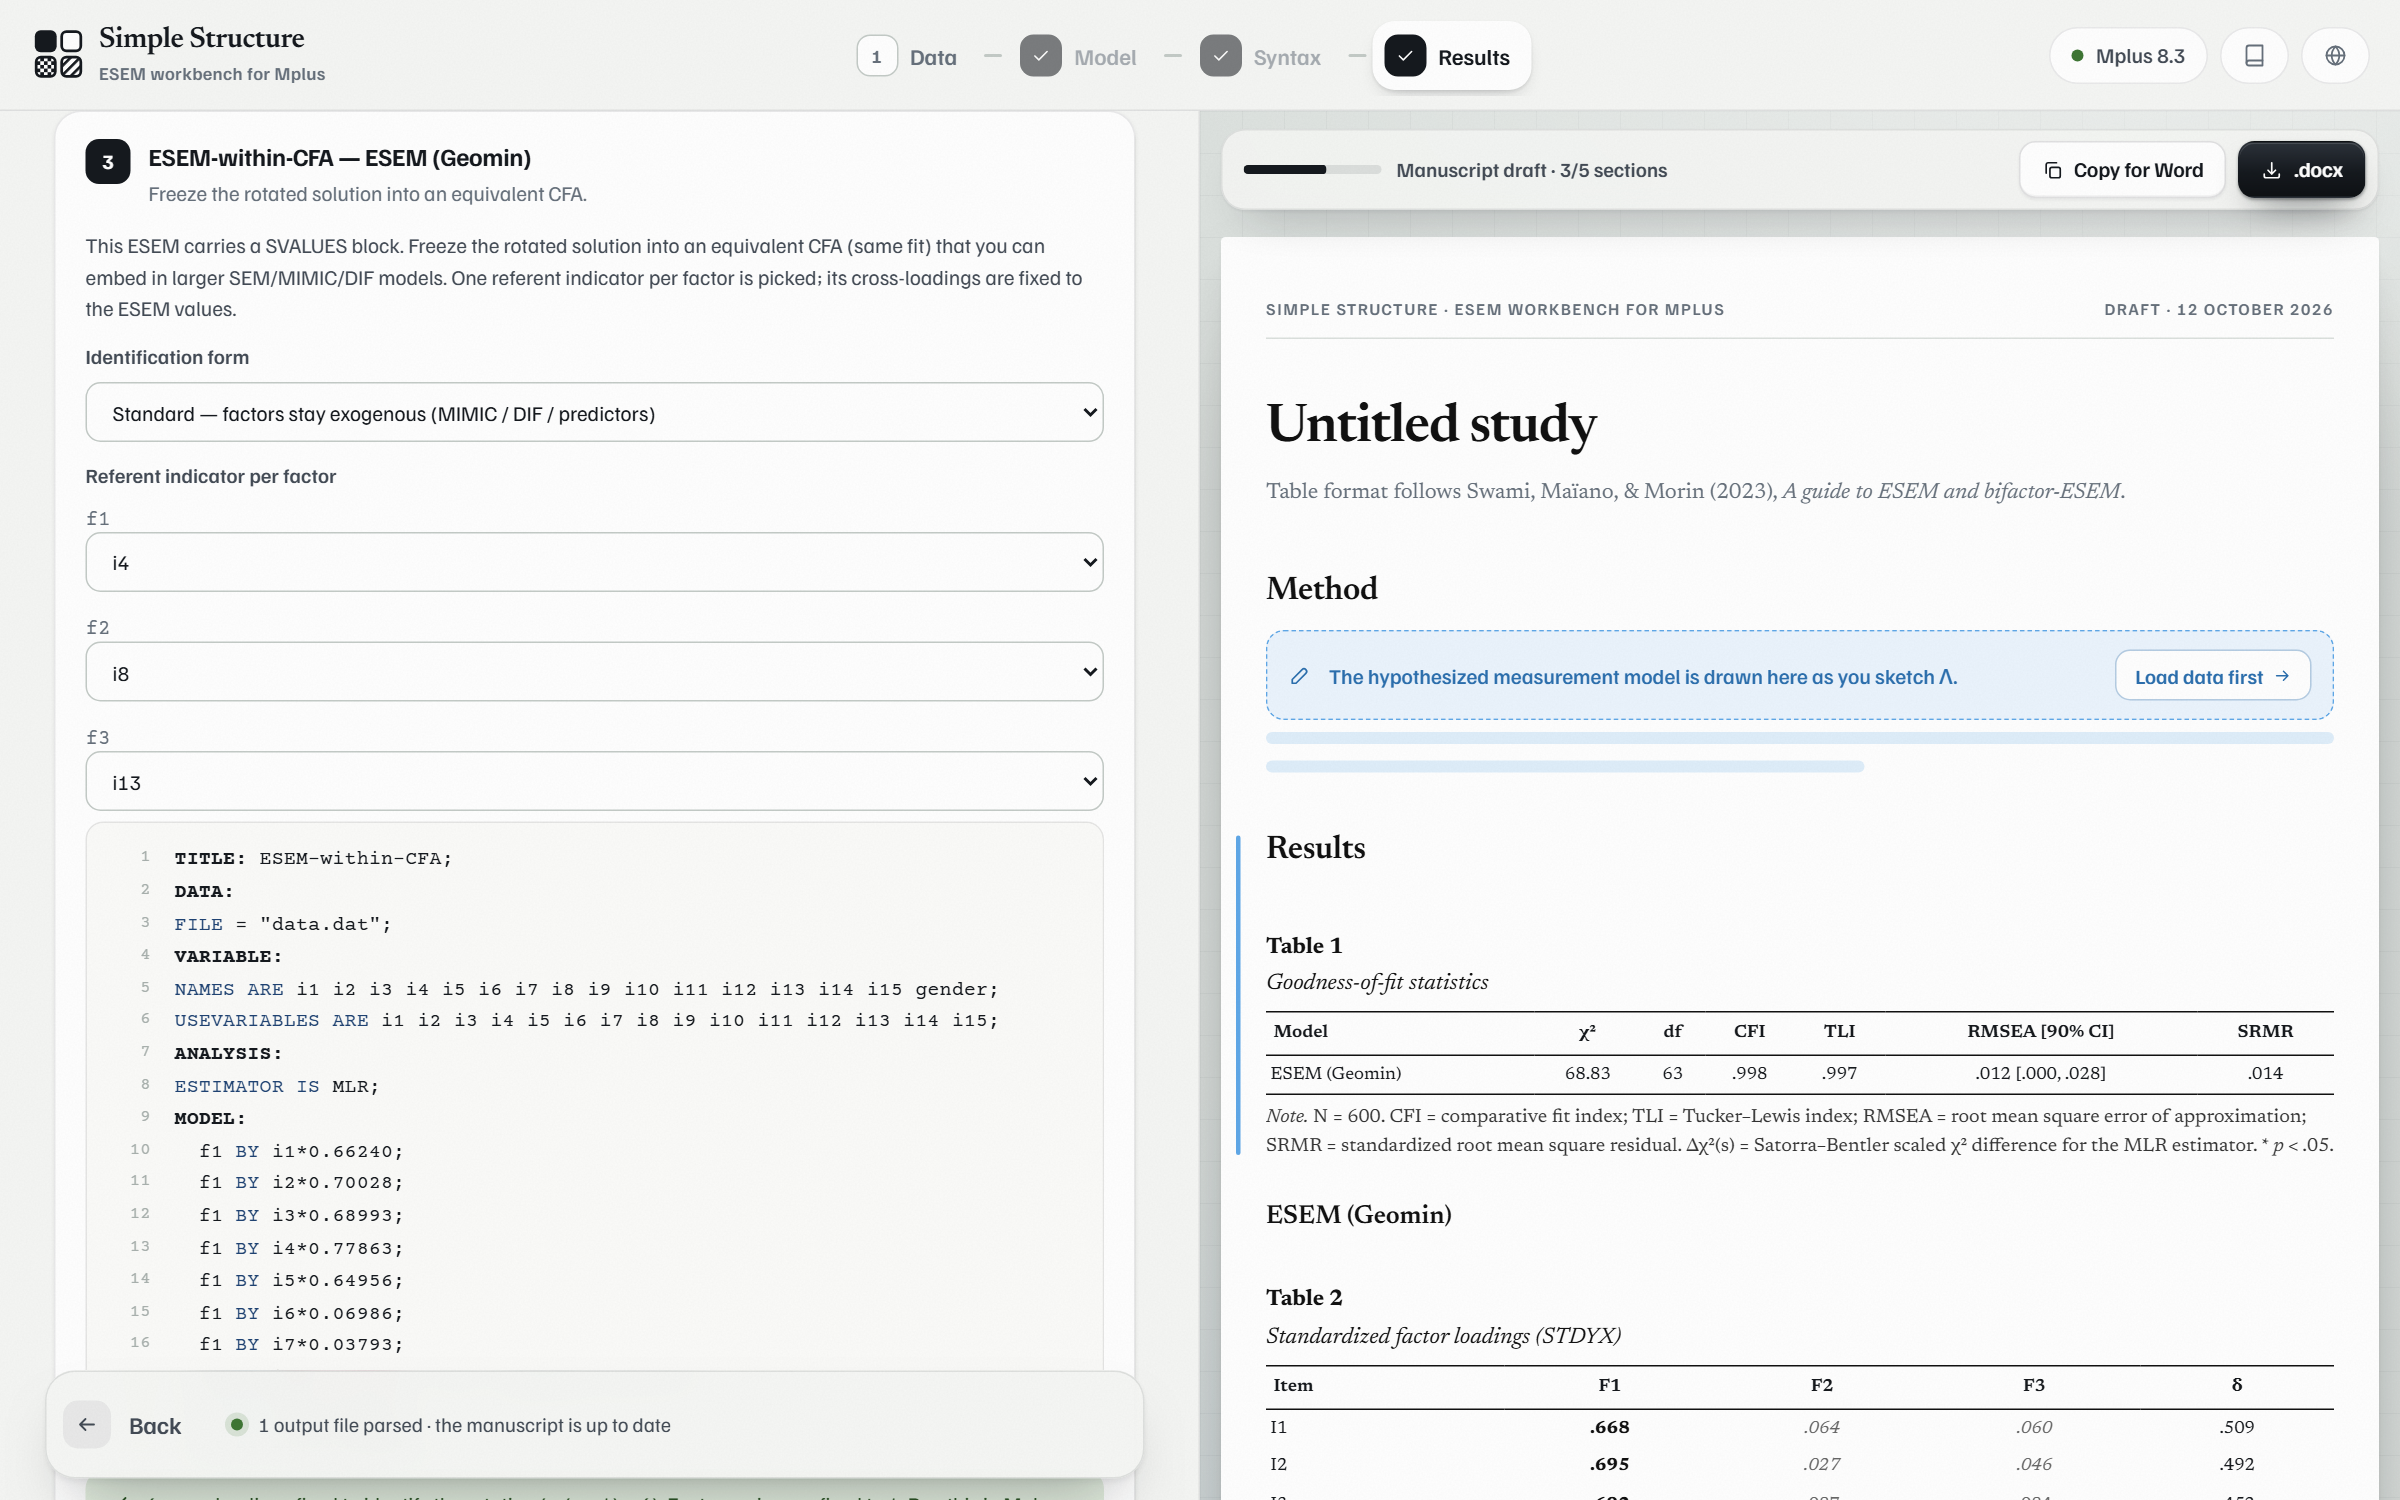
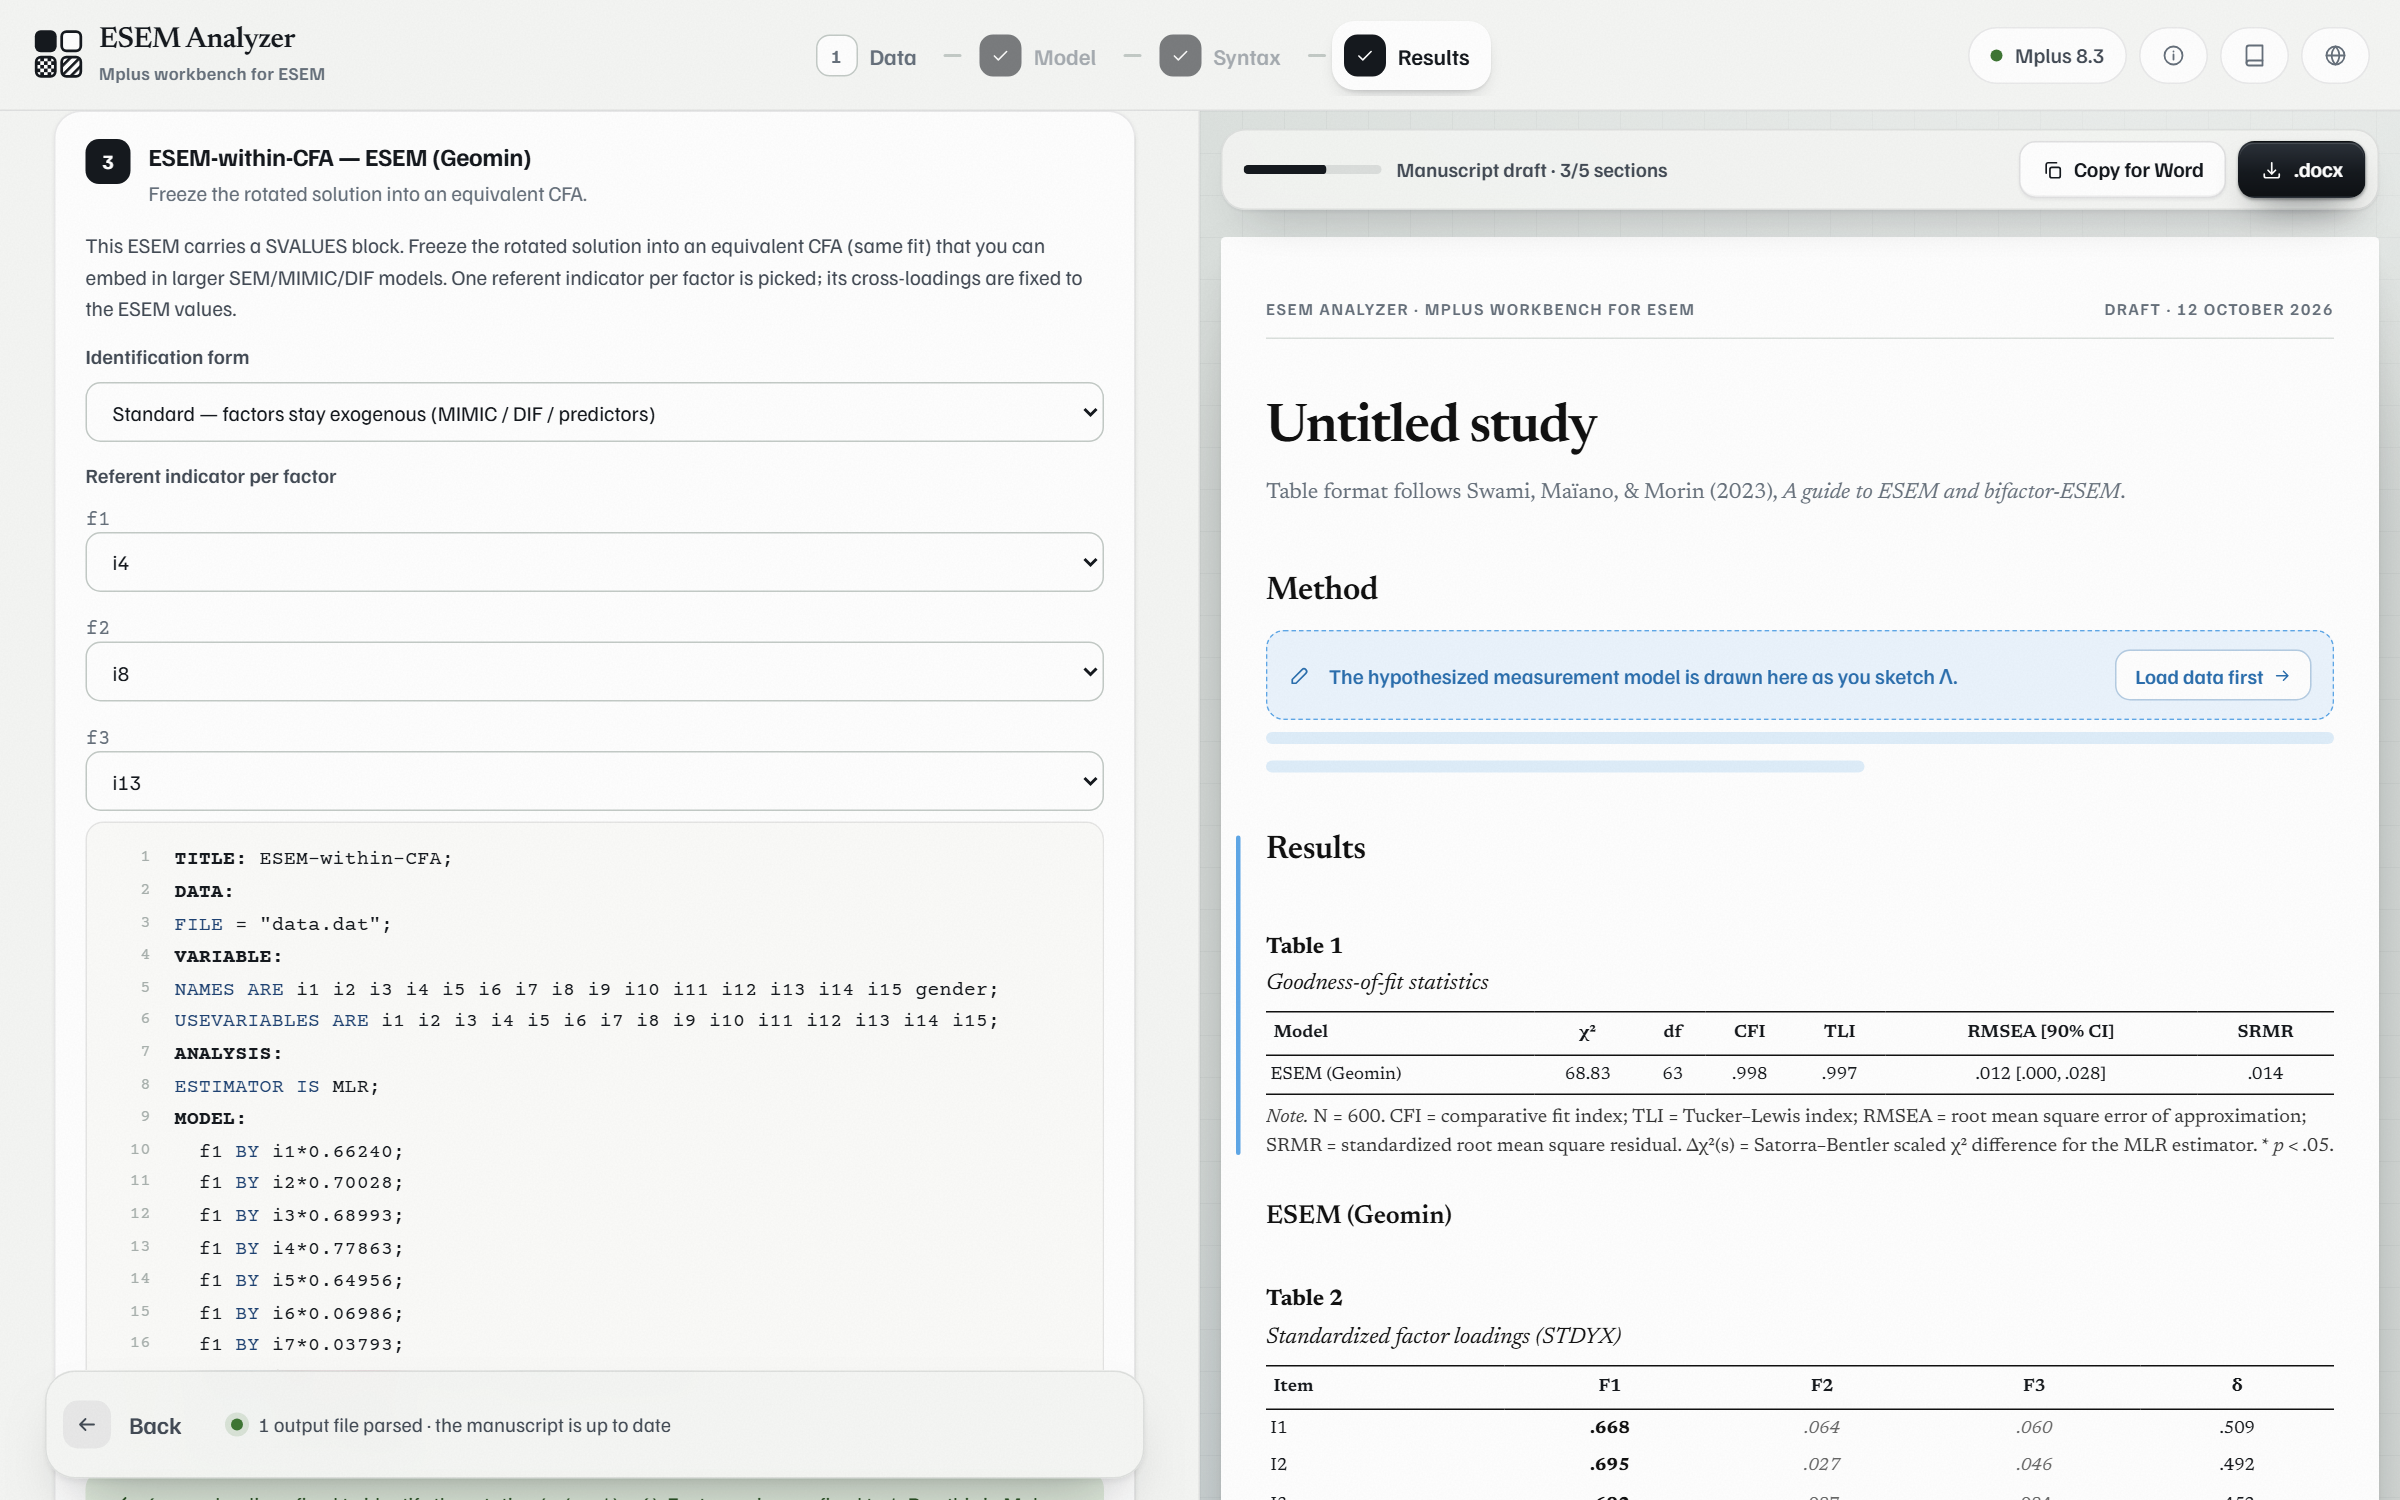
Refresh the documentation screenshots for the new name

diff --git a/demo.html b/demo.html
@@ -118,19 +118,19 @@
 
           <h3 class="step" id="model"><span class="num-badge" aria-hidden="true">2</span>Sketch the model</h3>
           <p class="body">On the Λ target-pattern matrix set three factors (i1–i5 → F1, i6–i10 → F2, i11–i15 → F3), pick a rotation (Geomin or Target), the estimator (MLR), and the models to generate. The manuscript on the right draws the hypothesized model as Figure 1 while you click; the syntax preview opens on the Mplus sheet.</p>
-          <figure class="shot"><img width="2400" height="1500" src="docs/img/02-model-builder.png?v=7" alt="The Model step: items, factors and the Λ target-pattern matrix on the left; the manuscript with the hypothesized model on the right" loading="lazy" /></figure>
+          <figure class="shot"><img width="2400" height="1500" src="docs/img/02-model-builder.png?v=8" alt="The Model step: items, factors and the Λ target-pattern matrix on the left; the manuscript with the hypothesized model on the right" loading="lazy" /></figure>
           <p class="tcap fig"><b></b></p><p class="tcap"><i>The Model step with the three-factor pattern preloaded.</i></p>
           <div class="row"><a class="btn btn-sm" href="index.html?demo=model">Open the Model step (3 factors preloaded)</a></div>
 
           <h3 class="step" id="syntax"><span class="num-badge" aria-hidden="true">3</span>Generate the syntax, run it</h3>
           <p class="body">The app writes exact Mplus <span class="mono">.inp</span> for every model: CFA, ESEM (Geomin and Target), bifactor-CFA, bifactor-ESEM and the six invariance steps, wrapped under the 90-character limit. Click a file to read it on the Mplus sheet. Started on your own computer (<span class="mono">node serve.mjs</span>, or the desktop <span class="mono">.exe</span> from the releases page), the step finds your Mplus, shows its version in the topbar, and <b>Run all in Mplus</b> runs the models one after another; each output joins the manuscript as it finishes. Online, download the files or use <b>Auto mode</b> (Chrome/Edge): a local folder with a <span class="mono">RUN-ALL.bat</span> that imports the results as Mplus writes them. The optional <b>Convergence aids</b> card adds Morin's remedies for stubborn models.</p>
-          <figure class="shot"><img width="2400" height="1500" src="docs/img/03-syntax.png?v=7" alt="The Syntax step: input files, the Run in Mplus card with per-model status, and convergence aids" loading="lazy" /></figure>
+          <figure class="shot"><img width="2400" height="1500" src="docs/img/03-syntax.png?v=8" alt="The Syntax step: input files, the Run in Mplus card with per-model status, and convergence aids" loading="lazy" /></figure>
           <p class="tcap fig"><b></b></p><p class="tcap"><i>The Syntax step on a computer with Mplus: two models run and written into the manuscript.</i></p>
           <div class="row"><a class="btn btn-sm" href="index.html?demo=syntax">Open the Syntax step</a></div>
 
           <h3 class="step" id="results"><span class="num-badge" aria-hidden="true">4</span>Read it as APA</h3>
           <p class="body">Each <span class="mono">.out</span> becomes a row of the fit table and a <b>Morin-style loadings table</b> (Hoyle Handbook, Table 2): items grouped into subscale blocks with a per-block ω row, target loadings bold, non-significant loadings italic, plus auto-written prose and an interactive path diagram. Several outputs share one fit-comparison table. <b>Copy for Word</b> and <b>.docx</b> export the very same tables in the same layout. For this demo the runs are already done: every output in <span class="mono">example-dataset/</span> is a real Mplus 8.3 result.</p>
-          <figure class="shot"><img width="2400" height="1500" src="docs/img/04-results.png?v=7" alt="The Results step: output files on the left, the goodness-of-fit table and standardized loadings in the manuscript" loading="lazy" /></figure>
+          <figure class="shot"><img width="2400" height="1500" src="docs/img/04-results.png?v=8" alt="The Results step: output files on the left, the goodness-of-fit table and standardized loadings in the manuscript" loading="lazy" /></figure>
           <p class="tcap fig"><b></b></p><p class="tcap"><i>Five measurement models compared in one fit table.</i></p>
           <div class="row">
             <a class="btn btn-sm btn-primary" href="index.html?demo=measurement">All five measurement models</a>
@@ -140,25 +140,25 @@
 
           <h3 class="step"><span class="num-badge" aria-hidden="true">5</span>Bifactor diagram</h3>
           <p class="body">The diagrams follow the article's figures and are interactive: toggle cross-loadings and uniquenesses, show or hide factors, drag the ellipses, export SVG or PNG. Colour carries meaning: amber ellipses are the specific factors, the navy ellipse is the general factor reaching every item.</p>
-          <figure class="shot"><img width="2400" height="1500" src="docs/img/06-bifactor-diagram.png?v=7" alt="Bifactor path diagram in the manuscript with its options card on the left" loading="lazy" /></figure>
+          <figure class="shot"><img width="2400" height="1500" src="docs/img/06-bifactor-diagram.png?v=8" alt="Bifactor path diagram in the manuscript with its options card on the left" loading="lazy" /></figure>
           <p class="tcap fig"><b></b></p><p class="tcap"><i>Bifactor-ESEM path diagram: three specific factors and the general factor.</i></p>
           <div class="row"><a class="btn btn-sm" href="index.html?demo=bifactor">Open the bifactor-ESEM result</a></div>
 
           <h3 class="step"><span class="num-badge" aria-hidden="true">6</span>Invariance across groups</h3>
           <p class="body">The six <span class="mono">inv_*.out</span> files (men vs women) collapse into one comparison table: configural → metric → scalar → strict → variance–covariance → latent means, with Satorra–Bentler scaled Δχ², ΔCFI, ΔRMSEA and a supported / not supported verdict (Chen, 2007).</p>
-          <figure class="shot"><img width="2400" height="1500" src="docs/img/07-invariance.png?v=7" alt="Measurement invariance comparison table in the manuscript" loading="lazy" /></figure>
+          <figure class="shot"><img width="2400" height="1500" src="docs/img/07-invariance.png?v=8" alt="Measurement invariance comparison table in the manuscript" loading="lazy" /></figure>
           <p class="tcap fig"><b></b></p><p class="tcap"><i>Tests of measurement invariance across two groups.</i></p>
           <div class="row"><a class="btn btn-sm" href="index.html?demo=invariance">Open the invariance sequence</a></div>
 
           <h3 class="step"><span class="num-badge" aria-hidden="true">7</span>Invariance across time</h3>
           <p class="body">The same six steps also run <b>longitudinally</b>: one single-group model per step, each wave as its own ESEM set, loadings equated across waves, every indicator's residual correlated with itself over time. Sequences are generated for CFA, ESEM and <b>bifactor-ESEM</b>. This demo drops twelve outputs from a 2-wave well-being example: invariance holds through variance–covariance, and the latent-means step flags the built-in growth, which the bifactor sequence places on the general factor only.</p>
-          <figure class="shot"><img width="2400" height="1500" src="docs/img/08-longitudinal.png?v=7" alt="Longitudinal invariance comparison tables for ESEM and bifactor-ESEM" loading="lazy" /></figure>
+          <figure class="shot"><img width="2400" height="1500" src="docs/img/08-longitudinal.png?v=8" alt="Longitudinal invariance comparison tables for ESEM and bifactor-ESEM" loading="lazy" /></figure>
           <p class="tcap fig"><b></b></p><p class="tcap"><i>Longitudinal invariance tables for the ESEM and bifactor-ESEM sequences.</i></p>
           <div class="row"><a class="btn btn-sm" href="index.html?demo=longitudinal">Open the longitudinal sequences</a></div>
 
           <h3 class="step"><span class="num-badge" aria-hidden="true">8</span>Convert to ESEM-within-CFA</h3>
           <p class="body">Because the ESEM output carries a SVALUES block, Results shows an <b>ESEM-within-CFA</b> card: it picks a referent indicator per factor, fixes that referent's cross-loadings to their ESEM values, and writes a runnable CFA you can embed in larger SEM, MIMIC or DIF models (Morin's referent method). Verified in Mplus to reproduce the source ESEM exactly (df 63, log-likelihood −11107.13 in both). On a computer with Mplus the card runs the new model from here too.</p>
-          <figure class="shot"><img width="2400" height="1500" src="docs/img/05-esem-within-cfa.png?v=7" alt="ESEM-within-CFA card with referent pickers and the generated syntax" loading="lazy" /></figure>
+          <figure class="shot"><img width="2400" height="1500" src="docs/img/05-esem-within-cfa.png?v=8" alt="ESEM-within-CFA card with referent pickers and the generated syntax" loading="lazy" /></figure>
           <p class="tcap fig"><b></b></p><p class="tcap"><i>The ESEM-within-CFA card: referents, generated syntax, identification check.</i></p>
           <div class="row"><a class="btn btn-sm" href="index.html?demo=ewc">Open the ESEM-within-CFA demo</a></div>
 

diff --git a/README.md b/README.md
@@ -22,7 +22,7 @@ in body image research_, _Body Image_ 47, 262–278.**
 > **▶ Try it live (no install): https://cahitgs.github.io/esem-analyzer/**
 > &nbsp;·&nbsp; **Guided demo (worked example): https://cahitgs.github.io/esem-analyzer/demo.html**
 
-![Model builder — Λ target-pattern matrix, live syntax, conceptual diagram](docs/img/02-model-builder.png?v=7)
+![Model builder — Λ target-pattern matrix, live syntax, conceptual diagram](docs/img/02-model-builder.png?v=8)
 
 ---
 
@@ -69,7 +69,7 @@ Two identification forms are offered: **standard** (factor variances `@1` — fo
 predicting outcomes) and **higher-order** (the referent's main loading also fixed, variances `*1` — for
 factors that become endogenous, e.g. under a higher-order factor).
 
-![ESEM-within-CFA card](docs/img/05-esem-within-cfa.png?v=5)
+![ESEM-within-CFA card](docs/img/05-esem-within-cfa.png?v=8)
 
 **Verified against real Mplus 8.3:** the generated oblique ESEM-within-CFA reproduces the source ESEM
 *exactly* — identical number of free parameters, degrees of freedom, χ², and log-likelihood
